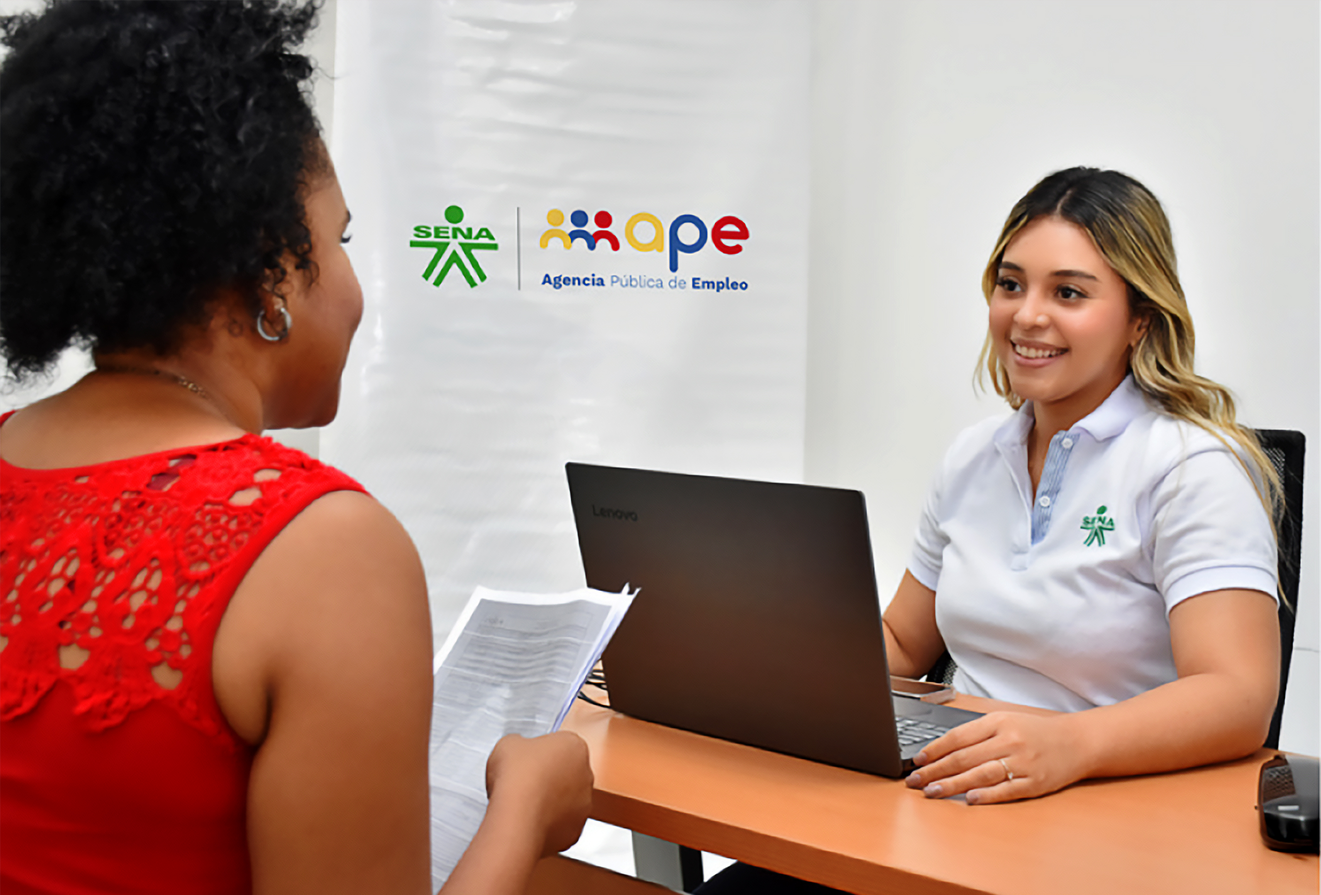
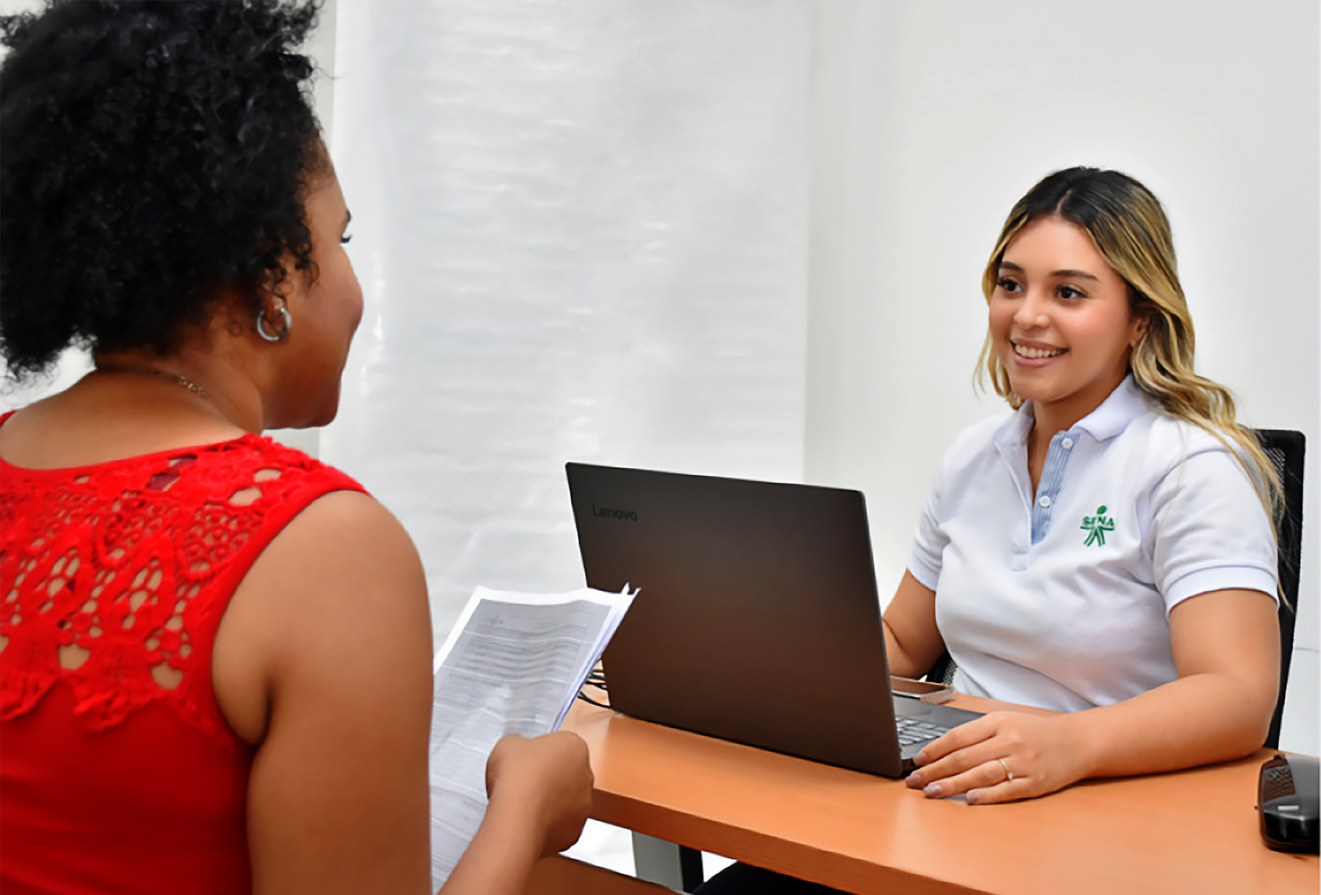
Cambio del 1 de abril, boton de inicio mas grande y reemplazo de img de ape

Changed region(s): [[0.4055, 0.2174, 0.5927, 0.3416], [0.312, 0.2174, 0.3743, 0.3416]]

diff --git a/sena/static/css/styles.css b/sena/static/css/styles.css
@@ -184,8 +184,8 @@ body {
 
 .inicio-container {
     position: relative;
-    bottom: 20px;
-    left: 20px;
+    bottom: 40px;
+    left: 40px;
 }
 
 
@@ -196,15 +196,15 @@ body {
 }
 
 .icono-circular {
-    width: 40px;
-    height: 40px;
+    width: 50px;
+    height: 50px;
     background: #f1f1f1;
     border-radius: 50%;
     display: flex;
     align-items: center;
     justify-content: center;
     box-shadow: 2px 2px 10px rgba(0, 0, 0, 0.1);
-    margin-right: 10px;
+    margin-right: 12px;
     transition: background-color 0.3s ease;
 }
 
@@ -214,7 +214,7 @@ body {
 
 .icono-circular i {
     color: #39a900 !important; 
-    font-size: 18px; 
+    font-size: 22px; 
 }
 
 
@@ -229,9 +229,9 @@ h1.fw-bold {
     border-radius: 12px;
     box-shadow: 2px 2px 10px rgba(0, 0, 0, 0.1);
     color: #002b5c;
-    font-size: 20px;
+    font-size: 22px;
     font-weight: bold;
-    padding: 10px 20px;
+    padding: 12px 24px;
     transition: transform 0.3s ease, box-shadow 0.3s ease;
 }
 
@@ -316,7 +316,7 @@ html, body {
 .header-banner h1{
     position: absolute;
     color: #5a5b5a;
-    font-size: 50px;
+    font-size: 55px;
     top: 40px;  
     left: 100px; 
     margin: 0;
@@ -403,9 +403,9 @@ html, body {
     border-radius: 12px;
     box-shadow: 2px 2px 10px rgba(0, 0, 0, 0.1);
     color: #002b5c;
-    font-size: 18px;
+    font-size: 22px;
     font-weight: bold;
-    padding: 10px 20px;
+    padding: 12px 24px;
     transition: transform 0.3s ease, box-shadow 0.3s ease;
 }
 
@@ -535,7 +535,6 @@ html, body {
     left: 300px; 
     margin: 0; 
     font-size: 55px;
-    
 }
 
 
@@ -1030,7 +1029,7 @@ html, body {
 .enrural-section {
     min-height: 100vh;
     background: url("../img/enrural.jpg") no-repeat right center;
-    background-size: 70% 100%;
+    background-size: 60% 100%;
     position: relative;
     display: flex;
     flex-direction: column;
@@ -1162,11 +1161,11 @@ html, body {
 }
 
 .logo-ape {
-    max-width: 200px;
+    max-width: 250px;
     height: auto;
     position:absolute;
     top: 20px;
-    right: 50px;
+    right: 0px;
 }
 
 .option-card-ape {
@@ -1851,7 +1850,7 @@ html, body {
     color: #5a5b5a;
     font-size: 55px;
     top: 40px;  
-    left: -300px; 
+    left: -120px; 
     margin: 0;
 }
 
@@ -1861,7 +1860,7 @@ html, body {
     height: auto;
     position:absolute;
     top: 20px;
-    right: 200px;
+    right: 20px;
 }
 
 .subtitulo-servicios {
@@ -1987,7 +1986,7 @@ html, body {
     font-weight: 900;              
     font-size: 3rem;               
     text-transform: uppercase;     
-    color: #333;                   
+    color:  #3e3d3e !important;                   
     letter-spacing: 0.05em;  
 }
 

diff --git a/sena/templates/enrural.html b/sena/templates/enrural.html
@@ -17,7 +17,7 @@
 
     <div class="container-fluid">
         <div class="row justify-content-start">
-            <div class="col-md-6 col-sm-8 d-flex flex-column align-items-center ps-5">
+            <div class="col-md-6 col-sm-8 d-flex flex-column align-items-start ps-5">
                 <div class="d-flex flex-column gap-3">
 
                     <button type="button" class="option-card-enrural abrir-ventana" data-url="{% url 'abrirUrl' 'Cómo crear tu empresa' 'https://www.fondoemprender.com/SitePages/FondoEmprenderConvocatorias2020.aspx'|base64encode %}">
